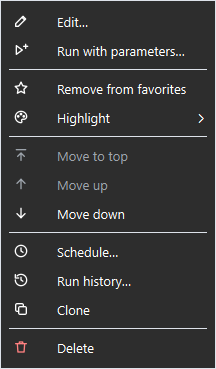
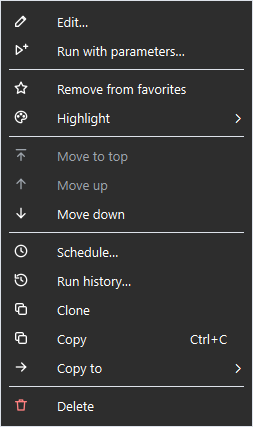
Tutorial: copying to another group
Groups gains "Copying to another group" (Copy to, Copy and Paste, what a
copy carries) and Paste in the group-menu table; the row menu and group
menu screenshots are retaken, the group menu with a row copied so Paste
names it. Tips lists Ctrl+C / Ctrl+V on a row.

Changed region(s): [[0.0, 0.0, 1.0, 1.0], [0.2222, 0.4173, 0.6111, 0.4472], [0.75, 0.7751, 0.9167, 0.8049]]

diff --git a/.claude/skills/ryos-tutorial-generator/scripts/capture.py b/.claude/skills/ryos-tutorial-generator/scripts/capture.py
@@ -120,8 +120,12 @@ def main() -> int:
 
     # -- 04 groups ------------------------------------------------------------------------
     save(win, "04-group-pills", top(win, 150))
+    # With a row copied, so Paste names what it will paste.
+    win.copy_item("script", driver.script_id("Say hello"))
     win.popup = popup_capture("04-group-menu")
-    win._show_group_menu("Samples", QPoint(0, 0))
+    win._show_group_menu("Tools", QPoint(0, 0))
+    win._copied = None
+    win.statusBar().clearMessage()
     win.run_dialog = dialog_capture("04-new-group-dialog")
     win.new_group()
 

diff --git a/docs/tutorial/04-groups.md b/docs/tutorial/04-groups.md
@@ -16,11 +16,12 @@ A group is a set of scripts and pipelines that belong together — *Work* and *H
 
 Right-click a group's pill:
 
-![The menu on a group pill: Rename, Clone Group, Base folder…, Export group and Delete Group](images/04-group-menu.png)
+![The menu on the Tools pill with a script copied: Rename…, Paste "Say hello" (Ctrl+V), Clone group, Base folder…, Export group… and Delete group](images/04-group-menu.png)
 
 | Entry | What it does |
 | --- | --- |
 | **Rename…** | Give the group a new name. |
+| **Paste** | Copy what you copied into this group (see below). Greyed until you copy something. |
 | **Clone group** | Copy the group with all its scripts and pipelines. |
 | **Base folder…** | Set or change the group's folder (clicking the folder line under the pills does the same). |
 | **Export group…** | Save just this group to a file. See [Import and export](10-import-export.md). |
@@ -31,6 +32,17 @@ Drag a pill left or right to change the order of your groups.
 ## Moving things between groups
 
 Drag a row onto another group's pill to move it there. Drag it up or down within its panel to change its place; a line shows where it will land.
+
+## Copying to another group
+
+To keep the original where it is and put a copy in another group:
+
+- **Copy to.** Right-click the row → **Copy to** → pick the group. Done in one step.
+- **Copy and Paste.** Right-click the row → **Copy** (or select the row and press **Ctrl+C**). Then right-click another group's pill → **Paste**, or press **Ctrl+V** on any row in that group. Paste names what it will paste, and you can paste the same thing into several groups.
+
+A copied script keeps everything that defines how it runs — parameters, interpreter, environment, working folder — and its saved presets. A copied pipeline brings the scripts its steps run, so it works and can be edited in its new group. If that group already has a script that runs exactly the same way, the copy uses it instead of adding a second one.
+
+A copy keeps the star and highlight colour too, but not a schedule or run history: those stay with the original. (**Clone** makes the same kind of copy in the same group, named "… (copy)".)
 
 ---
 [← Running a script](03-running-and-output.md) · [Contents](README.md) · [Next: Parameters and presets →](05-parameters-and-presets.md)

diff --git a/docs/tutorial/12-tips.md b/docs/tutorial/12-tips.md
@@ -22,7 +22,7 @@
 
 - **Highlight a name.** Right-click → **Highlight** colours a row's name, to make one stand out in a long list.
 - **Let RYOS pick the interpreter.** Leave **Interpreter** blank: `.py` runs with Python, `.ps1` with PowerShell, and so on. Fill it in only to override.
-- **Keyboard.** RYOS starts in the search box: type to filter, **Esc** to clear, **↓** to go into the list. There the arrow keys (and **Home**, **End**, **Page Up/Down**) move between rows, **Enter** runs the row, **F2** edits it and the **Menu** key (or **Shift+F10**) opens its right-click menu, which holds everything its hover buttons do. In select mode, **Space** ticks a row. **Tab** moves between the header, the list and the output; in a dialog **Enter** presses the highlighted button and **Esc** closes it.
+- **Keyboard.** RYOS starts in the search box: type to filter, **Esc** to clear, **↓** to go into the list. There the arrow keys (and **Home**, **End**, **Page Up/Down**) move between rows, **Enter** runs the row, **F2** edits it, **Ctrl+C** copies it (then **Ctrl+V** on a row in another group pastes it there) and the **Menu** key (or **Shift+F10**) opens its right-click menu, which holds everything its hover buttons do. In select mode, **Space** ticks a row. **Tab** moves between the header, the list and the output; in a dialog **Enter** presses the highlighted button and **Esc** closes it.
 - **Keep it running in the tray.** **Options… → Startup & Window → Close to tray instead of exiting** keeps RYOS (and your schedules) running when you close the window.
 - **Report a bug.** Click the bug icon at the right end of the status bar (or **Help → Report a bug…**). It opens a new issue on GitHub already filled in with your RYOS, Windows, Python and Qt versions, your theme and layout — write what happened and submit it. Nothing is sent until you do; if the log would help, attach `%APPDATA%\RYOS\logs\ryos.log` after a look at what is in it.
 - **Back up.** **File → Export all groups…** now and then, and your setup is one import away.

diff --git a/docs/tutorial/01-main-window.md b/docs/tutorial/01-main-window.md
@@ -48,9 +48,9 @@ A row shows only its play button (and a gold star if it's a favorite) until you 
 | Star | Add to or remove from Favorites (gold when it is one). |
 | Play (green) | Run it. After a failed run it turns red with a circular arrow: press it to try again. |
 
-**Right-click** a row for everything else: edit, run with parameters, favorites, a highlight colour for the name, moving it up or down, schedule, run history, clone and delete.
+**Right-click** a row for everything else: edit, run with parameters, favorites, a highlight colour for the name, moving it up or down, schedule, run history, clone, copy to another group and delete.
 
-![The right-click menu of a script: Edit…, Run with parameters…, Remove from favorites, Highlight, Move to top, Move up, Move down, Schedule…, Run history…, Clone and Delete](images/01-row-menu.png)
+![The right-click menu of a script: Edit…, Run with parameters…, Remove from favorites, Highlight, Move to top, Move up, Move down, Schedule…, Run history…, Clone, Copy (Ctrl+C), Copy to and Delete](images/01-row-menu.png)
 
 ## The Output bar
 
